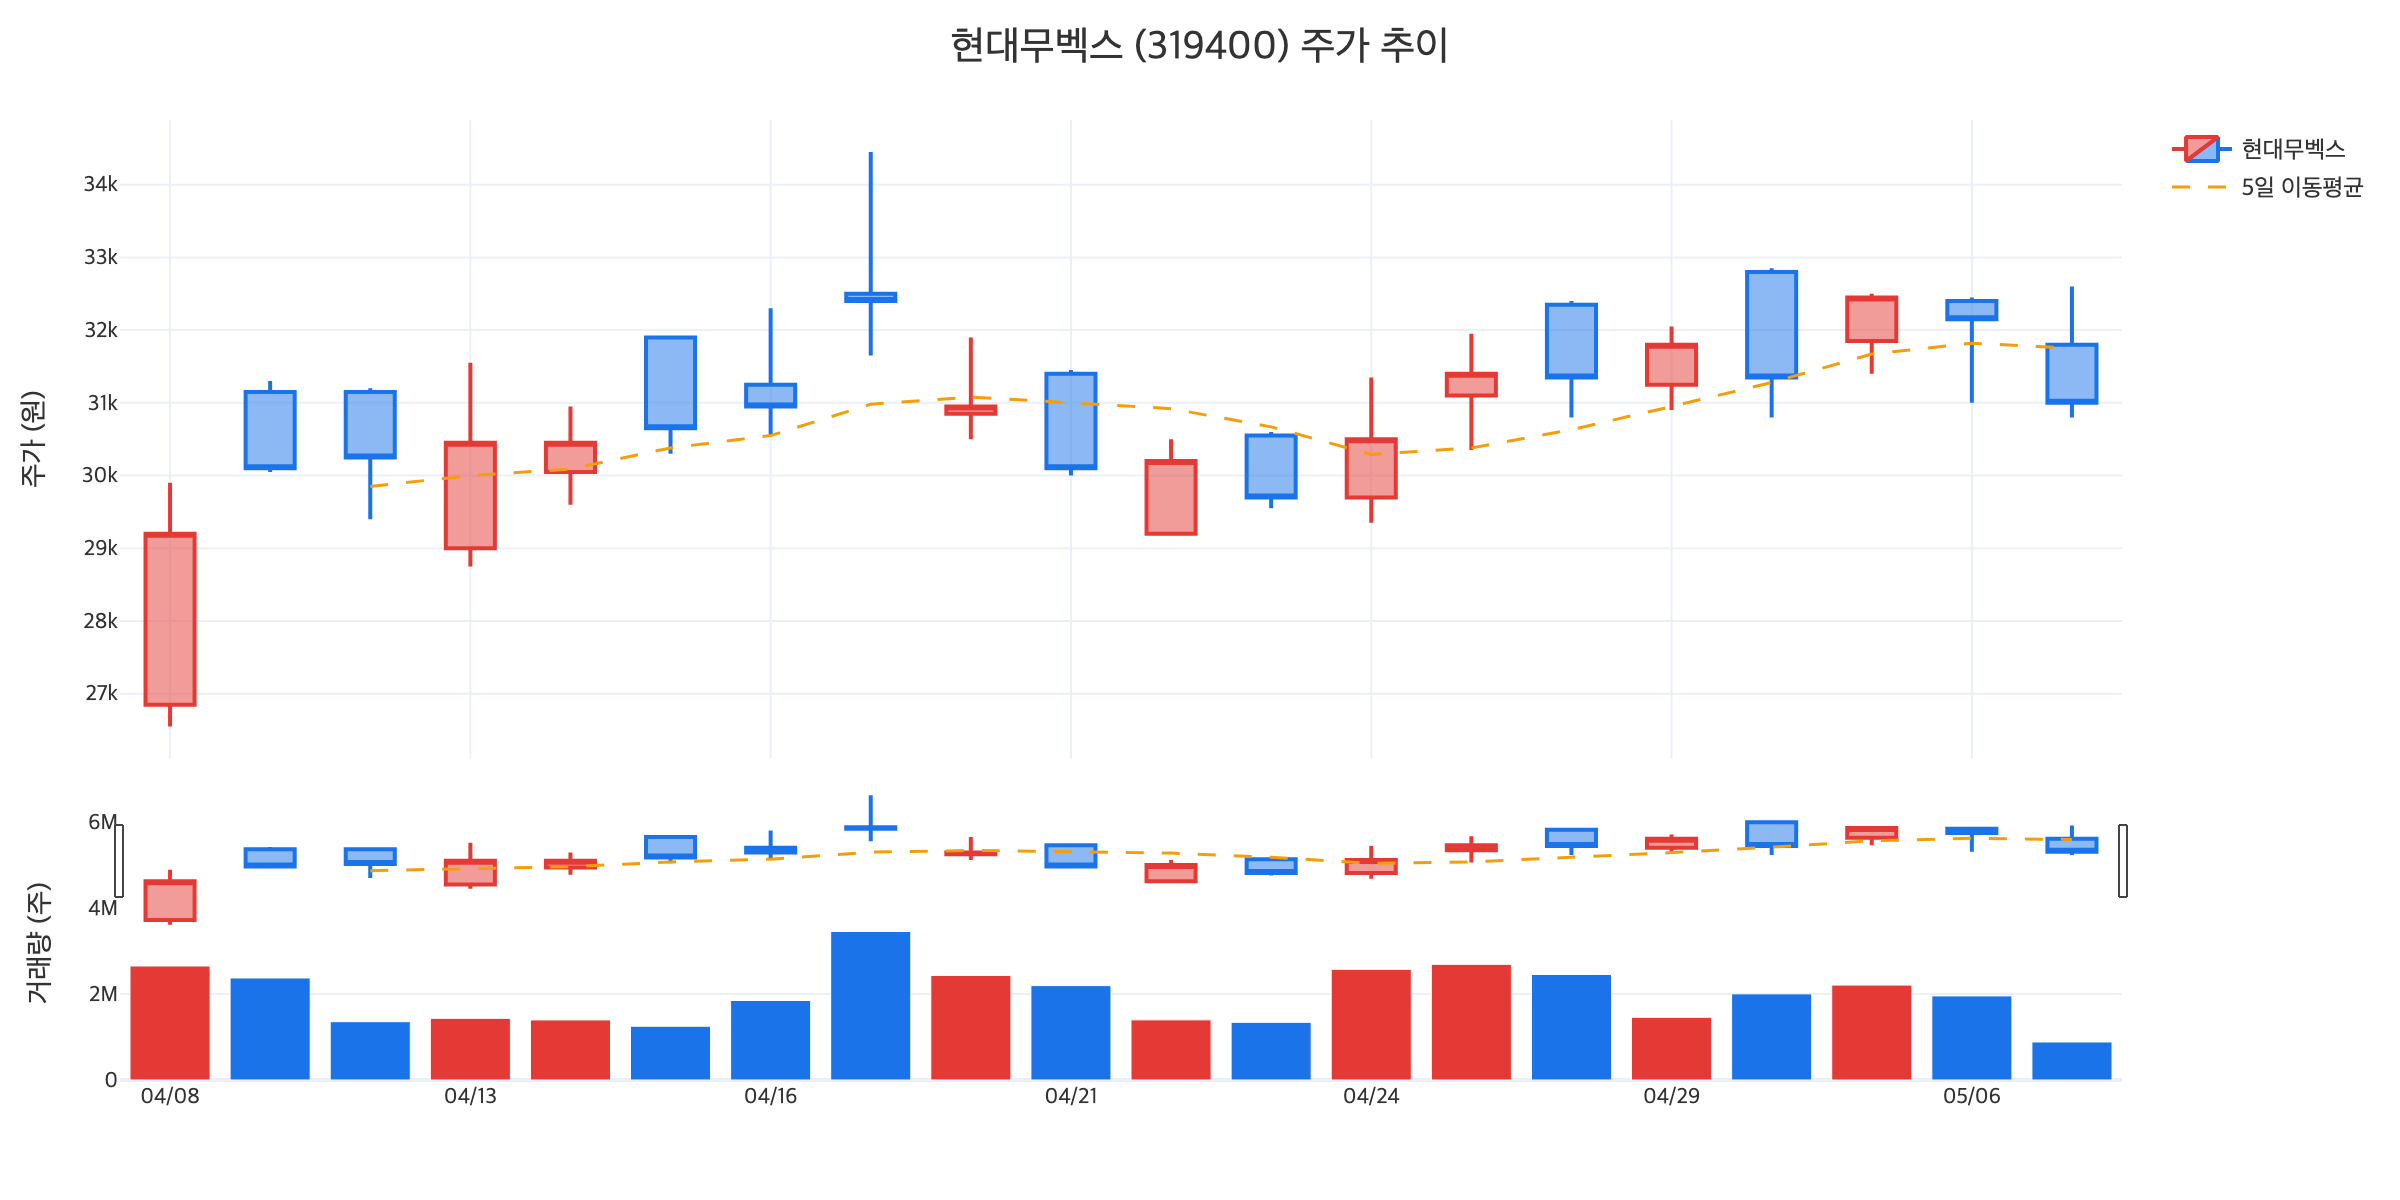
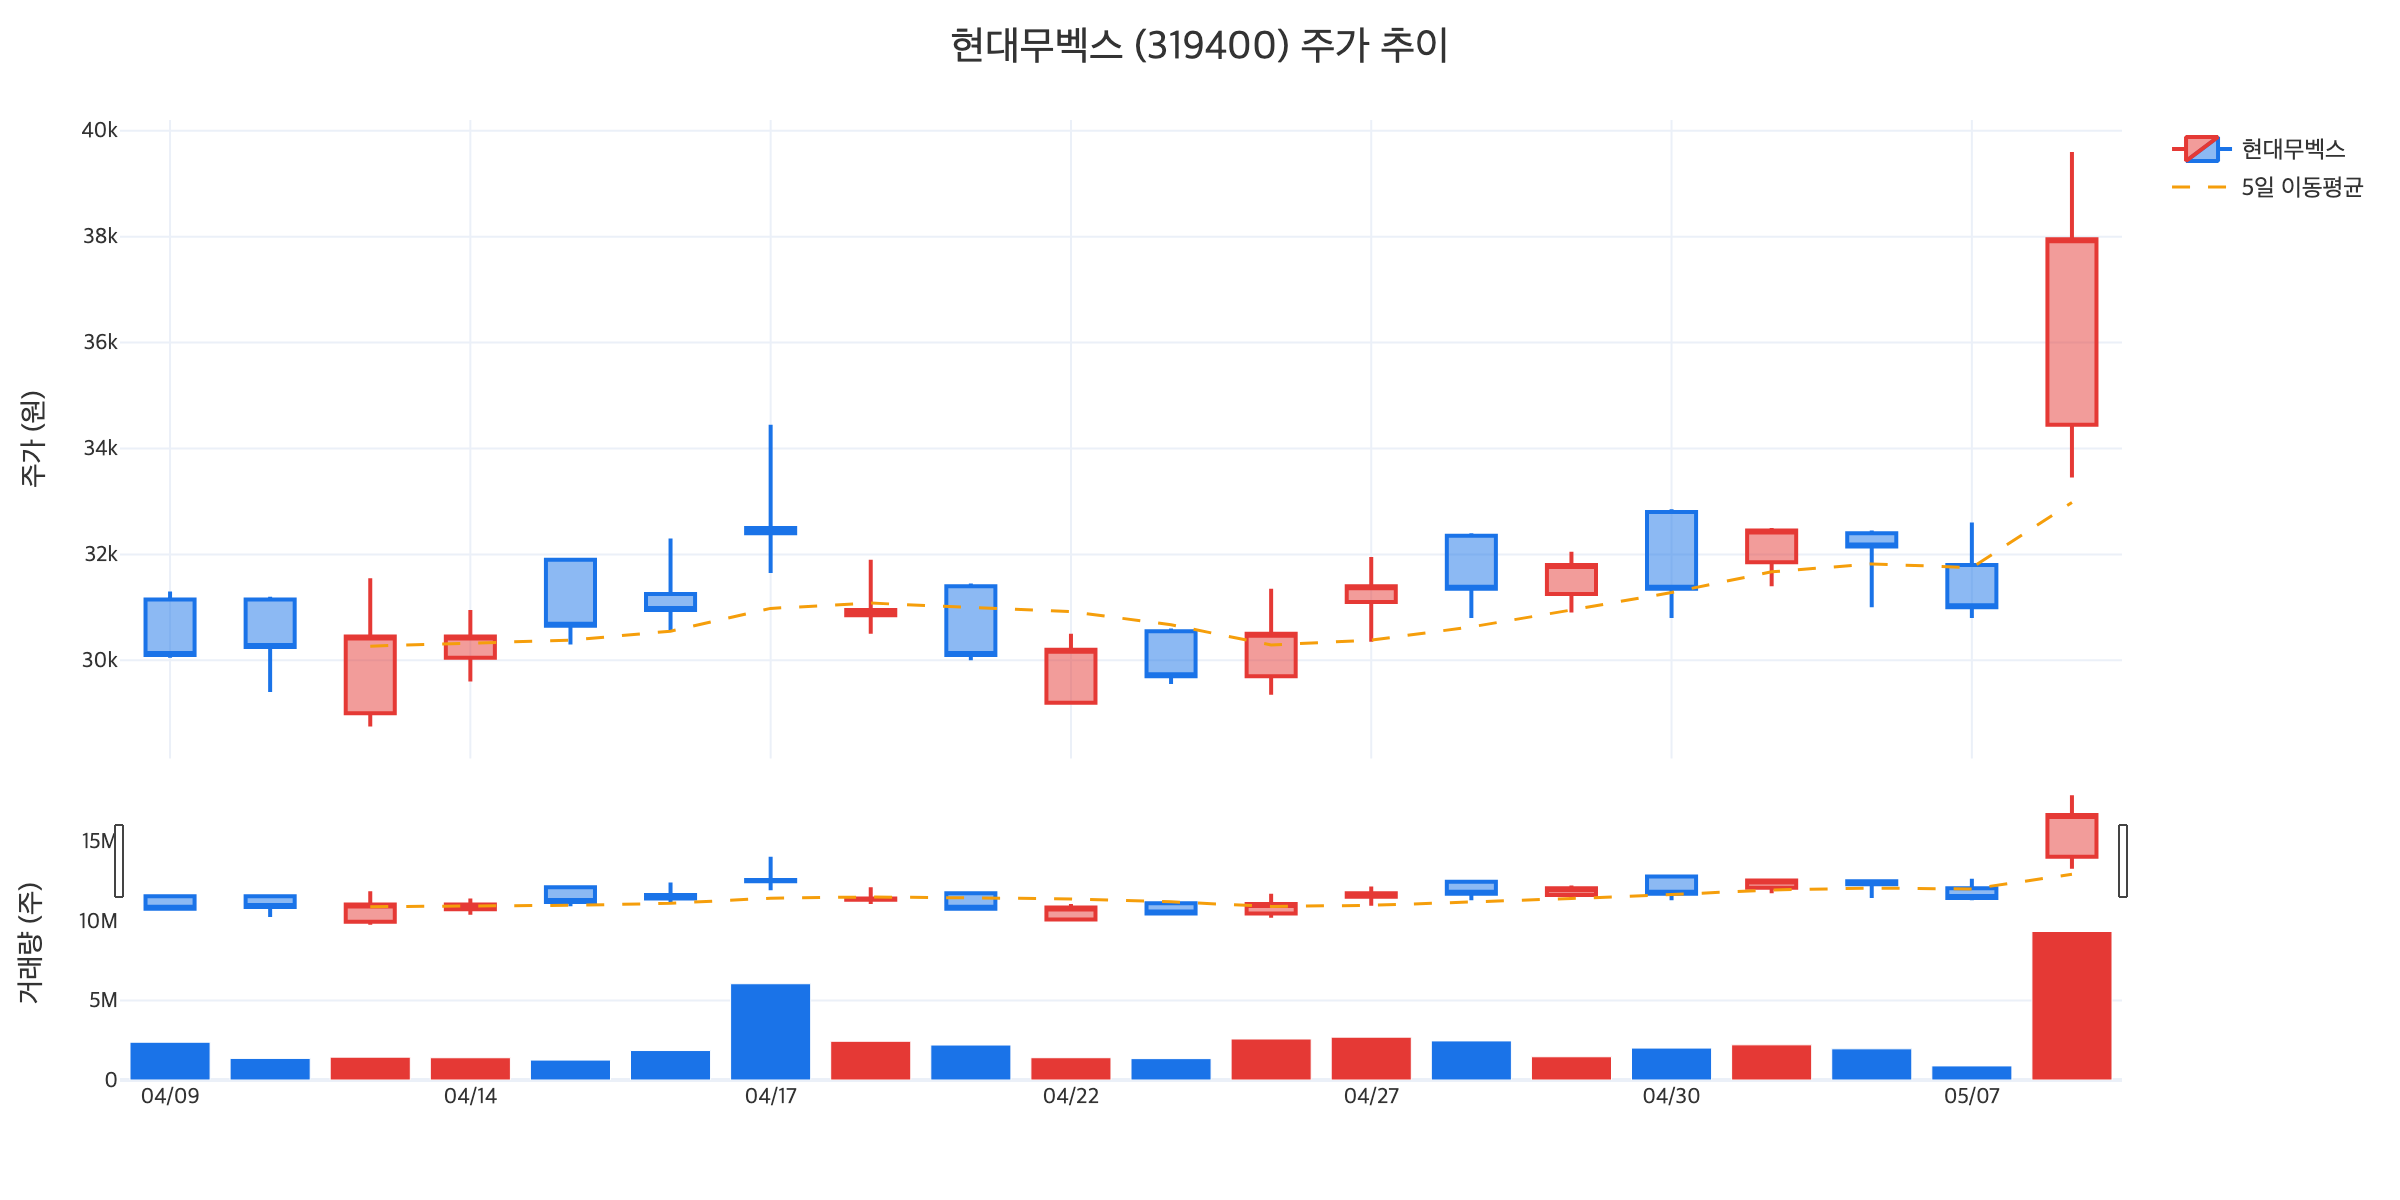
fix: 현대무벡스 차트 이미지 업데이트 (5/8 주가 포함)

diff --git a/playandplay/hyundai-movex-0508/hyundai-movex-0508.html b/playandplay/hyundai-movex-0508/hyundai-movex-0508.html
@@ -1,0 +1,135 @@
+<img src="https://raw.githubusercontent.com/micael17/enterprise-agent-assets/main/images/hyundai-movex-0508/mubeks_thumbnail.png" alt="현대무벡스 썸네일">
+<p><em>현대무벡스, 보스턴다이내믹스 아틀라스 개발형 모델 공개를 계기로 +25.65% 급등</em></p>
+<blockquote>
+<p>현대무벡스가 5월 8일 장중 +25.65% 급등하며 38,950원에 거래되고 있다.</p>
+<p>보스턴다이내믹스가 5월 5일(현지시각) 휴머노이드 로봇 아틀라스 개발형 모델 영상을 공개한 점이 직접 트리거다.</p>
+<p>이날 현대오토에버가 상한가(+29.97%)를 기록하며 현대차그룹 로봇 밸류체인 전반이 동반 강세다.</p>
+<p>거래대금 1조 5,275억원, 거래량 4,167만주로 수급이 폭발적으로 유입됐다.</p>
+</blockquote>
+<hr>
+<h2>이슈</h2>
+<p>5월 5일(현지시각) 보스턴다이내믹스는 휴머노이드 로봇 아틀라스 개발형 모델의 작동 영상을 공개했다.</p>
+<p>영상에서 아틀라스는 물구나무서기, L자 기계체조 동작 등 고난도 움직임을 선보였다.</p>
+<p>해당 모델은 상용화 직전 단계의 제품으로, 실제 제조 현장 투입을 앞둔 단계로 평가된다.</p>
+<p>이 발표를 기점으로 5월 7일(목)부터 현대차그룹주가 일제히 상승 흐름을 보이기 시작했다.</p>
+<p>5월 8일(금)에는 현대오토에버 상한가(+29.97%)를 신호로 그룹 전 계열사로 매수세가 확산됐다.</p>
+<p>현대무벡스는 같은 날 장중 +25.65%, 38,950원을 기록했다.</p>
+<p>장 시작과 동시에 변동성완화장치(VI)가 발동됐고, 시초가 31,150원은 전일 대비 괴리율 +10.80%로 출발했다.</p>
+<p>장중 고가 39,600원은 상한가 40,300원에 근접한 수준이다.</p>
+<p>거래량은 4,167만주, 거래대금은 1조 5,275억원으로 평소 수준 대비 급증한 흐름이다.</p>
+<p>시가총액은 4조 3,464억원까지 확대됐다.</p>
+<hr>
+<h2>로봇 테마 동반 강세</h2>
+<p>5월 8일 현대차그룹 로봇 밸류체인은 일제히 강세를 보였다.</p>
+<table>
+<thead><tr>
+<th>종목</th>
+<th>등락률</th>
+</tr></thead>
+<tbody>
+<tr>
+<td style="text-align:left">현대오토에버</td>
+<td style="text-align:left">+29.97% (상한가)</td>
+</tr>
+<tr>
+<td style="text-align:left">현대무벡스</td>
+<td style="text-align:left">+25.65%</td>
+</tr>
+<tr>
+<td style="text-align:left">현대모비스</td>
+<td style="text-align:left">+17.01%</td>
+</tr>
+<tr>
+<td style="text-align:left">레인보우로보틱스</td>
+<td style="text-align:left">+14.63%</td>
+</tr>
+<tr>
+<td style="text-align:left">현대글로비스</td>
+<td style="text-align:left">+14.32%</td>
+</tr>
+<tr>
+<td style="text-align:left">현대차</td>
+<td style="text-align:left">+11.89%</td>
+</tr>
+<tr>
+<td style="text-align:left">휴림로봇</td>
+<td style="text-align:left">+11.58%</td>
+</tr>
+<tr>
+<td style="text-align:left">유진로봇</td>
+<td style="text-align:left">+7.06%</td>
+</tr>
+</tbody>
+</table>
+<p>현대오토에버가 상한가를 기록한 가운데, 현대무벡스는 그룹 내 두 번째로 높은 상승률을 기록했다.</p>
+<p>순수 로봇주인 레인보우로보틱스, 휴림로봇, 유진로봇도 동반 강세를 보였다.</p>
+<p>이번 흐름은 종목 단독 모멘텀이 아닌 현대차그룹 로봇 밸류체인 전반의 동반 랠리로 해석된다.</p>
+<hr>
+<h2>뉴스</h2>
+<p>아틀라스 개발형 모델 공개 및 그룹주 동반 급등 관련 보도가 5월 6일~8일 집중됐다.</p>
+<p><a href="https://www.yna.co.kr/view/AKR20260506092100003" target="_blank" rel="noopener">연합뉴스 - 보스턴다이내믹스, 아틀라스 기계체조 영상 공개</a></p>
+<p><a href="https://www.mt.co.kr/stock/2026/05/08/2026050809184442868" target="_blank" rel="noopener">머니투데이 - 현대오토에버, 아틀라스 개발형 모델 공개 영향</a></p>
+<p><a href="https://n.news.naver.com/mnews/article/015/0005284550" target="_blank" rel="noopener">네이버뉴스 - 코스피, 종전 협상 불확실에 7300선 후퇴…현대차그룹株 동반 급등</a></p>
+<p><a href="https://www.cbci.co.kr/news/articleView.html?idxno=573085" target="_blank" rel="noopener">CBC뉴스 - 로봇 관련주 급등</a></p>
+<p><a href="https://www.ggilbo.com/news/articleView.html?idxno=1156800" target="_blank" rel="noopener">금강일보 - 현대무벡스 주가 급등</a></p>
+<hr>
+<h2>차트</h2>
+<img src="https://raw.githubusercontent.com/micael17/enterprise-agent-assets/main/images/hyundai-movex-0508/mubeks_price.png" alt="현대무벡스 주가 차트">
+<p><em>현대무벡스 최근 주가·거래량 추이. 5월 7일 종가 31,000원 → 5월 8일 장중 38,950원 (+25.65%)</em></p>
+<p>5월 7일 종가 31,000원은 직전 52주 흐름 중 박스권 하단부에 위치한 수준이다.</p>
+<p>5월 8일 시가는 31,150원으로 출발했으나 즉시 변동성완화장치(VI)가 발동됐다.</p>
+<p>VI 발동 사유는 시초가 괴리율 +10.80%다.</p>
+<p>장중 고가는 39,600원으로 상한가 40,300원에 근접했다.</p>
+<p>장중 저가는 31,050원으로 시초가 부근에서 형성됐다.</p>
+<p>12시 34분 기준 38,950원은 시초가 대비 +25.04% 추가 상승한 위치다.</p>
+<p>주가 흐름은 시가-저가-고가-현재가 순서로 단계적 상승 구조다.</p>
+<p>5월 7일까지 31,000원~32,450원 수준의 좁은 박스권에서 거래되던 흐름이 5월 8일 한 번에 깨졌다.</p>
+<p>52주 최고 50,400원 대비로는 약 77% 수준에 위치한다.</p>
+<p>52주 최저 3,730원 대비로는 약 10배 수준으로 회귀했다.</p>
+<hr>
+<h2>수급</h2>
+<img src="https://raw.githubusercontent.com/micael17/enterprise-agent-assets/main/images/hyundai-movex-0508/mubeks_investor.png" alt="현대무벡스 수급 차트">
+<p><em>현대무벡스 최근 5거래일 투자자별 일별 순매수. 외국인 +22.2만주, 기관 -7.4만주, 개인 -16.8만주</em></p>
+<p>직전 5거래일(4/29~5/7) 누적 순매수는 외국인 +222,200주, 기관 -74,167주, 개인 -167,610주다.</p>
+<p>수급의 무게 중심은 외국인이다.</p>
+<p>외국인은 4월 29일 +168,609주, 5월 4일 +266,328주의 대량 순매수를 만들었다.</p>
+<p>다만 5월 6일 -39,627주, 5월 7일 -66,503주로 직전 2거래일 연속 매도 우위로 전환됐다.</p>
+<p>외국인 보유율은 4월 29일 1.56%에서 5월 4일 1.71%까지 상승한 뒤 5월 7일 1.64%로 일부 차익 실현된 모습이다.</p>
+<p>기관은 4월 29일 +54,972주 외에는 5거래일 중 3일 매도 우위였다.</p>
+<p>5월 6일 -123,678주의 대량 매도가 두드러진다.</p>
+<p>개인은 4월 29일 -225,402주, 5월 4일 -298,495주의 대량 매도 이후 5월 6일~7일에는 매수로 전환된 흐름이다.</p>
+<p>5월 8일 거래량 4,167만주, 거래대금 1조 5,275억원의 폭발적 유입은 직전 5거래일 누적 순매수의 절대치(약 46만주 합계)를 단기에 압도하는 규모다.</p>
+<p>이 정도 거래대금은 외국인·기관·개인 어느 한 주체의 단독 매집으로 설명되기 어렵고, 모멘텀 매수세가 광범위하게 유입된 것으로 해석된다.</p>
+<p>외국인 소진율은 1.64%로 그룹 계열사 평균 대비 낮은 수준이다.</p>
+<hr>
+<h2>시황</h2>
+<p>미국 증시는 AI·로봇 섹터 강세를 보이며 기술주 중심으로 상승했다.</p>
+<p>나스닥과 필라델피아 반도체 지수도 견조한 흐름을 유지하고 있다.</p>
+<p>중동 정세 관련 불확실성이 일부 남아 있으나, 로봇·자동차 섹터는 별개 흐름으로 매수세가 집중되고 있다.</p>
+<p>같은 날 코스피는 종전 협상 불확실성 영향으로 7,300선 아래로 후퇴했으나, 현대차그룹주는 그와 무관하게 동반 급등했다.</p>
+<p>이번 랠리의 본질은 보스턴다이내믹스 아틀라스 상용화 임박 신호가 현대차그룹 로봇 밸류체인 전체에 대한 재평가로 이어졌다는 점이다.</p>
+<p>밸류체인은 모비스(부품)-오토에버(소프트웨어)-글로비스(물류)-위아(부품)-무벡스(스마트물류) 구조로 형성돼 있다.</p>
+<p>현대무벡스는 이 가운데 스마트 물류 자동화 영역의 핵심 계열사로 분류된다.</p>
+<hr>
+<h2>펀더멘탈</h2>
+<p>현대무벡스는 현대그룹(현대엘리베이터 대주주) 계열의 스마트 물류 자동화 전문 기업이다.</p>
+<p>주요 사업은 AGV(무인운반차), AI 물류 솔루션, PSD(승강장안전문), 스마트팩토리 영역으로 구성된다.</p>
+<p>2024년 영업이익은 245억원으로, 전년 41억원 대비 +493% 급증한 실적이다.</p>
+<p>ROE는 2.67%에서 16.17%로 수직 상승했다.</p>
+<p>청라 R&D센터 신설을 통해 AI·로봇 기술 고도화를 추진 중이다.</p>
+<p>북미 MODEX 2026, AW 2026 등 글로벌 전시회 참가로 해외 시장 확장이 진행되고 있다.</p>
+<p>2026년 예상 영업이익은 390억원 수준으로 전망된다.</p>
+<p>다만 PER은 394.19배로 밸류에이션 부담이 큰 수준이다.</p>
+<p>EPS 99원 기준 현재가 38,950원은 실적 대비 가격이 빠르게 앞서 나간 구간이다.</p>
+<p>이번 급등은 단기 실적보다는 보스턴다이내믹스 상용화 임박이라는 미래 수혜 기대를 반영한 흐름으로 해석된다.</p>
+<hr>
+<h2>지켜볼 포인트</h2>
+<ul>
+<li>보스턴다이내믹스 아틀라스 상용화 일정 및 실제 발주 전환 여부</li>
+<li>외국인 수급 동향 (현재 1.64%로 상대적으로 낮은 지분율)</li>
+<li>단기 급등에 따른 투자경고종목 재지정 가능성</li>
+<li>현대차그룹 로봇 밸류체인 내 다른 계열사(모비스·오토에버·글로비스)의 동반 흐름 지속 여부</li>
+<li>5월 8일 종가의 위치(상한가 40,300원 또는 시가 31,150원 기준)</li>
+</ul>
+<hr>
+<p><em> 본 포스팅은 개인 의견이며 투자 판단의 책임은 본인에게 있습니다.</em></p>